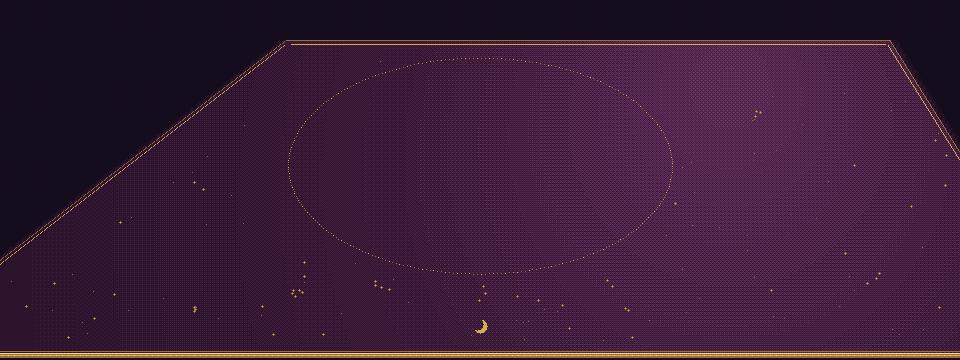
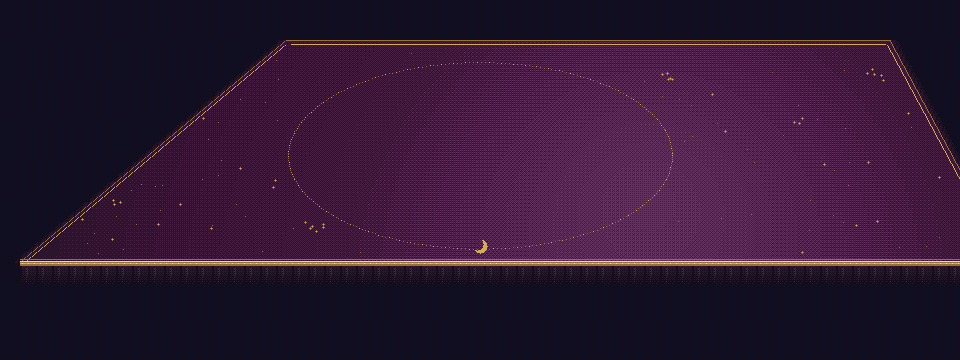
Cúi xuống tại chỗ: nhìn xuống chính chiếc bàn trước mặt Nguyệt
- Cảnh bàn đặt ngay trên mặt khăn trước mặt Nguyệt ở góc mặt Nguyệt; máy
  chỉ hạ nhẹ xuống đó trong khi mặt bàn nhìn từ chỗ khách ngồi hiện dần lên
  đè lên cảnh trong nhà (không so chiều sâu), ngẩng lên thì mờ đi. Hết lia
  qua vạt khăn sang một mặt bàn khác.
- Nến đứng ở mép gần bên phải, quả cầu pha lê ở mép gần bên trái như góc
  mặt Nguyệt; ánh nến trên khăn toả từ cây nến; ánh nến bàn chỉ sáng khi
  nhìn xuống. Mép gần (viền vàng, vạt khăn) nằm ngay trên hộp thoại.
- Điện thoại: nến nhích lên để ngọn lửa ló sau sổ, không đặt quả cầu.
- Bóng tay đổi hướng theo nến mới. Nhúng lại nguồn gốc ảnh; cập nhật
  DESIGN.md; ảnh chụp chuỗi cúi xuống và lúc đọc bài ở 1440 và 390.

diff --git a/src/components/scene/TableScene.tsx b/src/components/scene/TableScene.tsx
@@ -2,22 +2,30 @@
 import { useFrame } from "@react-three/fiber";
 import { useMemo, useRef, useState } from "react";
 import * as THREE from "three";
-import { FRAME_H, PX, PixelSprite, useRadialTexture } from "./pixel";
+import { PX, PixelSprite, framePos, useRadialTexture } from "./pixel";
 import { sceneStore } from "@/lib/store";
 
 const T = "/assets/table";
 const I = "/assets/interior";
 
-/** Mép trên của mặt bàn trùng mép dưới khung trong nhà (đã phóng overscan 1.08), để máy lia dọc liền một mạch. */
-const TOP_Y = -(FRAME_H * PX * 1.08) / 2;
+/**
+ * Cúi xuống tại chỗ: cảnh bàn đặt ngay trên chiếc bàn trước mặt Nguyệt ở góc mặt Nguyệt (mặt khăn của
+ * interior table.png, khung 640×360 từ y 250 tới 300, z 0.5, phóng overscan 1.08). Máy chỉ hạ nhẹ xuống đó
+ * trong khi mặt bàn nhìn từ trên hiện dần lên đè lên cảnh trong nhà; không lia qua vạt khăn sang chỗ khác.
+ */
+const TABLE_SURFACE_Y = framePos(320, 275, 0.5)[1] * 1.08;
 
 /** Khung ngắm của cảnh bàn: bản ngang cho màn ngang, bản dọc cho điện thoại. */
 export const tableFrame = (portrait: boolean): [number, number] => (portrait ? [360, 640] : [640, 360]);
-/** Tâm cảnh bàn trong thế giới, nơi camera nhìn vào khi hạ xuống. */
-export const tableCenterY = (portrait: boolean) => TOP_Y - (tableFrame(portrait)[1] * PX) / 2;
+/** Tâm cảnh bàn trong thế giới, nơi camera nhìn vào khi hạ xuống: chính mặt bàn trước mặt Nguyệt. */
+// eslint-disable-next-line @typescript-eslint/no-unused-vars
+export const tableCenterY = (_portrait: boolean) => TABLE_SURFACE_Y;
+
+/** Độ hiện của cảnh bàn (0..1), dùng chung cho ảnh mặt bàn, cây nến và ánh nến. */
+type Fade = { current: number };
 
 /** Ngọn nến đặt ở góc trên phải mặt bàn: chính nó thắp khăn (point light) và cho bloom bắt (flame glow). */
-function TableCandle({ x, y, size }: { x: number; y: number; size: number }) {
+function TableCandle({ x, y, size, fade }: { x: number; y: number; size: number; fade: Fade }) {
   const light = useRef<THREE.PointLight>(null);
   const halo = useRef<THREE.Mesh>(null);
   const tex = useRadialTexture("rgba(255,190,110,0.9)", "rgba(255,150,60,0)");
@@ -29,8 +37,9 @@ function TableCandle({ x, y, size }: { x: number; y: number; size: number }) {
     const t = clock.elapsedTime;
     const flicker = 0.88 + Math.sin(t * 13) * 0.04 + Math.sin(t * 7.3) * 0.05 + Math.random() * 0.03;
     const base = tag === "solemn" ? 0.6 : tag === "warm" ? 1.15 : tag === "reveal" ? 1.2 : 1;
-    if (light.current) light.current.intensity = 8.5 * base * flicker;
-    if (halo.current) (halo.current.material as THREE.MeshBasicMaterial).opacity = 0.4 * base * flicker;
+    // ánh nến bàn chỉ sáng khi đang nhìn xuống bàn, để không rọi thêm vào cảnh trong nhà
+    if (light.current) light.current.intensity = 8.5 * base * flicker * fade.current;
+    if (halo.current) (halo.current.material as THREE.MeshBasicMaterial).opacity = 0.4 * base * flicker * fade.current;
     tf.current += dt;
     if (tf.current > 0.12) {
       tf.current = 0;
@@ -45,29 +54,70 @@ function TableCandle({ x, y, size }: { x: number; y: number; size: number }) {
   return (
     <>
       <pointLight ref={light} position={[x, y + 0.2, 1.4]} color="#ffb061" intensity={8.5} distance={9} decay={1.1} />
-      <mesh ref={halo} position={[x, flameY, 0.05]} scale={[3.2, 3.2, 1]}>
+      <mesh ref={halo} position={[x, flameY, 0.05]} scale={[3.2, 3.2, 1]} renderOrder={12} userData={{ halo: true }}>
         <planeGeometry />
         <meshBasicMaterial map={tex} transparent opacity={0.4} depthWrite={false} blending={THREE.AdditiveBlending} toneMapped={false} />
       </mesh>
       {/* chính cây nến là nguồn sáng: giữ màu sáp thật, không nhận ánh nến của chính nó */}
-      <PixelSprite src={`${I}/candle.png`} position={[x, candleY, 0.06]} scale={S} mode="flat" />
-      <PixelSprite src={flames} frame={flame} position={[x, flameY, 0.07]} scale={S} mode="glow" glowStrength={2.1} glowColor="#ffd08a" />
+      <PixelSprite src={`${I}/candle.png`} position={[x, candleY, 0.06]} scale={S} mode="flat" renderOrder={13} />
+      <PixelSprite src={flames} frame={flame} position={[x, flameY, 0.07]} scale={S} mode="glow" glowStrength={2.1} glowColor="#ffd08a" renderOrder={14} />
     </>
   );
 }
 
-/** Mặt bàn nhìn từ trên. Lá, tay Nguyệt và cuốn sổ là lớp DOM đặt trên cảnh này (chữ thật, đọc được). */
+/**
+ * Mặt bàn nhìn từ chỗ khách ngồi, cúi xuống. Lá, tay Nguyệt và cuốn sổ là lớp DOM đặt trên cảnh này.
+ * Nến (gần, bên phải) và quả cầu pha lê (gần, bên trái) đứng đúng chỗ như ở góc mặt Nguyệt; toạ độ tính
+ * theo pixel của ảnh mặt bàn (khớp art/table.py tabletop). Cảnh vẽ đè lên cảnh trong nhà (không so chiều sâu)
+ * và hiện dần khi máy cúi xuống, mờ đi khi ngẩng lên.
+ */
 export function TableScene({ portrait }: { portrait: boolean }) {
   const [w, h] = tableFrame(portrait);
   const cy = tableCenterY(portrait);
-  // nến ở góc trên phải khăn
-  // bản dọc: điện thoại cắt bớt hai mép và thanh trên cùng che đỉnh, nên đặt nến lùi vào trong
-  const candleX = (w / 2 - (portrait ? 84 : 70)) * PX;
-  const candleY = cy + (h / 2 - (portrait ? 96 : 76)) * PX;
+  const group = useRef<THREE.Group>(null);
+  const fade = useRef(sceneStore.get().stage === "table" ? 1 : 0);
+  const prepared = useRef(false);
+  // pixel ảnh mặt bàn -> toạ độ thế giới (ảnh bản ngang rộng 960, hơn khung 640, để máy lia khi có sổ)
+  const iw = portrait ? w : 960;
+  const at = (u: number, v: number): [number, number] => [(u - iw / 2) * PX, cy + (h / 2 - v) * PX];
+  const candleS = portrait ? 1.2 : 1.6;
+  // điện thoại: mép gần thường nằm sau cuốn sổ và hộp thoại, nên nến đứng nhích lên để ngọn lửa ló ra sau sổ;
+  // quả cầu pha lê không đặt (ở góc mặt Nguyệt trên điện thoại nó cũng nằm ngoài khung)
+  const [candleX, candleY] = at(portrait ? 290 : 650, (portrait ? 400 : 232) - 20 * candleS);
+  const [ballX, ballY] = at(portrait ? 70 : 312, (portrait ? 440 : 232) - 14 * candleS);
+
+  useFrame((_, dt) => {
+    const g = group.current;
+    if (!g) return;
+    const target = sceneStore.get().stage === "table" ? 1 : 0;
+    const reduce = window.matchMedia?.("(prefers-reduced-motion: reduce)").matches;
+    fade.current = reduce ? target : THREE.MathUtils.damp(fade.current, target, 3.4, dt);
+    if (Math.abs(fade.current - target) < 0.004) fade.current = target;
+    g.visible = fade.current > 0.002;
+    g.traverse((o) => {
+      const m = o as THREE.Mesh;
+      if (!m.isMesh) return;
+      const mat = m.material as THREE.Material & { userData: { base?: number } };
+      if (!prepared.current) {
+        // vẽ sau cảnh trong nhà và không so chiều sâu, để đè lên trọn cảnh dù đứng ở z nào
+        mat.userData.base = mat.opacity;
+        mat.depthTest = false;
+        mat.alphaTest = 0;
+        mat.transparent = true;
+        mat.needsUpdate = true;
+        m.renderOrder = m.renderOrder || 10;
+      }
+      if (m.userData.halo) return; // quầng nến tự tính độ mờ theo fade
+      mat.opacity = (mat.userData.base ?? 1) * fade.current;
+    });
+    prepared.current = true;
+  });
+
   return (
-    <group>
-      <PixelSprite src={portrait ? `${T}/tabletop_doc.png` : `${T}/tabletop.png`} position={[0, cy, 0]} />
-      <TableCandle x={candleX} y={candleY} size={portrait ? 1.2 : 1.6} />
+    <group ref={group}>
+      <PixelSprite src={portrait ? `${T}/tabletop_doc.png` : `${T}/tabletop.png`} position={[0, cy, 0]} renderOrder={10} />
+      {!portrait && <PixelSprite src={`${I}/crystal.png`} position={[ballX, ballY, 0.05]} scale={candleS} renderOrder={11} />}
+      <TableCandle x={candleX} y={candleY} size={candleS} fade={fade} />
     </group>
   );
 }

diff --git a/src/app/globals.css b/src/app/globals.css
@@ -1001,9 +1001,9 @@ img {
   left: calc(var(--cx) + var(--w) * 1.12);
   transform: translateX(-50%);
 }
-/* tay trái lật gương: lật luôn hướng bóng để bóng vẫn đổ xuống bên trái (nến ở góc trên phải) */
+/* tay trái lật gương: lật luôn hướng bóng để bóng vẫn đổ về bên trái */
 .table-arm.is-resting.is-left .arm-shadow {
-  transform: translate(calc(var(--aw) * 0.16), calc(var(--aw) * 0.16));
+  transform: translate(calc(var(--aw) * 0.16), calc(var(--aw) * -0.12));
 }
 /* sổ mở trên điện thoại phủ kín bàn: cất cánh tay để ống tay không thò ra phía trên sổ */
 .table-field:has(> .notebook.is-open) .table-arm {
@@ -1017,9 +1017,9 @@ img {
   flex-direction: column;
   justify-content: flex-end;
 }
-/* bóng tay trên khăn: nến ở góc trên phải nên bóng đổ xuống bên trái */
+/* bóng tay trên khăn: nến đứng ở mép gần bên phải (như ở góc mặt Nguyệt) nên bóng đổ ngược lên bên trái */
 .arm-shadow {
-  transform: translate(calc(var(--aw) * -0.16), calc(var(--aw) * 0.16));
+  transform: translate(calc(var(--aw) * -0.16), calc(var(--aw) * -0.12));
   opacity: 0.38;
   filter: brightness(0);
 }

diff --git a/art/table.py b/art/table.py
@@ -12,13 +12,13 @@ import characters
 
 # ------------------------------------------------------------------ mặt bàn
 def tabletop(W, H, seed, CW=None):
-    """Mặt bàn của Nguyệt nhìn từ chỗ khách ngồi, hơi chếch xuống: mép xa hẹp hơn mép gần (phối cảnh),
-    hai mép bên chéo dần, ngoài mép bàn là sàn nhà chìm trong bóng tối. Khăn tím mận như ở góc mặt Nguyệt
-    (interior.table) phủ kín mặt bàn rồi rủ qua mép (dải nếp gấp tối, viền vàng ở mép), mép gần phía khách
-    là dải viền vàng đính hạt; sao thêu thưa dần về phía xa; vòng đọc bài chấm vàng; trăng khuyết ở mép gần.
-    Vạt áo và hai tay nghỉ của Nguyệt ở mép xa là lớp DOM (.table-robe).
-    CW: bề rộng vùng giữa để đặt vòng đọc bài; phần thêm hai bên cho máy lia ngang khi sổ nằm ở góc bàn.
-    Ánh nến đến từ góc trên phải mặt bàn (dither Bayer)."""
+    """Chính chiếc bàn trước mặt Nguyệt ở góc mặt Nguyệt (interior.table), khi khách cúi xuống nhìn:
+    phối cảnh từ chỗ khách ngồi, mép xa hẹp hơn mép gần, hai mép bên hội tụ về tâm máy, ngoài mép bàn là
+    bóng tối. Khăn tím mận phủ kín mặt bàn, rủ qua mép bên (dải nếp gấp tối); mép gần phía khách nằm phía trên
+    hộp thoại, là dải viền vàng đính hạt rồi vạt khăn rủ xuống như ở góc mặt Nguyệt. Nến (gần, bên phải) và
+    quả cầu pha lê (gần, bên trái) đứng đúng chỗ như ở góc mặt Nguyệt; chúng là sprite trong TableScene,
+    ở đây chỉ vẽ ánh nến (dither Bayer) toả từ chỗ cây nến. Vạt áo và hai tay nghỉ của Nguyệt ở mép xa là lớp
+    DOM (.table-robe). CW: bề rộng vùng giữa để đặt vòng đọc bài."""
     CW = CW or W
     landscape = CW > H
     img = new(W, H, 'out')
@@ -28,12 +28,14 @@ def tabletop(W, H, seed, CW=None):
     # bản dọc đối xứng; bản ngang dùng cho desktop có sổ ghim, máy lệch phải nên mép trái chéo rõ
     # và hiện trong khung, mép phải nằm ngoài cột sổ để sổ vẫn nằm trên bàn.
     if landscape:
-        far_y, far_l, far_r, near_l, near_r = 40, 286, 890, -130, 1090
+        far_y, near_y, far_l, far_r, near_l, near_r = 40, 262, 286, 890, 20, 1010
+        lx, ly = 650, 196                               # ngọn nến (TableScene đặt cây nến ở đây)
     else:
-        far_y, far_l, far_r, near_l, near_r = 52, 64, W - 64, -14, W + 14
+        far_y, near_y, far_l, far_r, near_l, near_r = 52, 455, 64, W - 64, 4, W - 4
+        lx, ly = 290, 362
 
     def edges(y):
-        t = (y - far_y) / max(1, H - far_y)
+        t = (y - far_y) / max(1, near_y - far_y)
         return far_l + (near_l - far_l) * t, far_r + (near_r - far_r) * t
 
     def hw(y):  # nửa bề rộng quanh tâm vòng đọc bài (dùng để chừa sao)
@@ -45,12 +47,11 @@ def tabletop(W, H, seed, CW=None):
         for x in range(W):
             if bayer(x, y, 0.10 + 0.08 * ((x // 7 + y // 40) % 2)):
                 px[x, y] = c('n0')
-    lx, ly = (730 if landscape else W - 84), far_y + H * 0.10   # nguồn sáng: ngọn nến gần góc xa bên phải
-    diag = math.hypot(W, H)
+    diag = math.hypot(W, H) * 0.8
     drape = 7                                          # dải khăn rủ qua mép bên
-    for y in range(far_y, H):
+    for y in range(far_y, near_y + 1):
         el, er = edges(y)
-        depth = (y - far_y) / (H - far_y)              # 0 ở mép xa, 1 ở mép gần
+        depth = (y - far_y) / (near_y - far_y)         # 0 ở mép xa, 1 ở mép gần
         for x in range(W):
             out_by = max(el - x, x - er)               # >0: ngoài mép bàn
             if out_by <= 0:
@@ -71,7 +72,7 @@ def tabletop(W, H, seed, CW=None):
                 px[x, y] = c(col)
     d = draw(img)
     # mép bàn: viền thêu vàng chạy theo mép khăn (hai bên và mép xa)
-    for y in range(far_y, H):
+    for y in range(far_y, near_y):
         el, er = edges(y)
         put(img, int(el), y, 'au0')
         put(img, int(er), y, 'au0')
@@ -80,19 +81,29 @@ def tabletop(W, H, seed, CW=None):
             put(img, int(er - 5), y, 'au1')
     d.line([(far_l, far_y), (far_r, far_y)], fill=c('au0'))
     d.line([(far_l + 5, far_y + 4), (far_r - 5, far_y + 4)], fill=c('au1'))
-    # mép gần: khăn gập xuống phía khách, dải viền vàng đính hạt
-    d.line([(0, H - 9), (W, H - 9)], fill=c('au0'))
-    d.line([(0, H - 7), (W, H - 7)], fill=c('au2'))
-    d.rectangle([0, H - 6, W, H - 3], fill=c('au0'))
-    d.line([(0, H - 5), (W, H - 5)], fill=c('au1'))
-    for x in range(2, W, 6):
-        put(img, x, H - 5, 'au2')
-    d.rectangle([0, H - 2, W, H - 1], fill=c('out'))
+    # mép gần: dải viền vàng đính hạt, rồi vạt khăn rủ xuống phía khách (nếp gấp như interior.table)
+    nl, nr = edges(near_y)
+    nl, nr = int(max(0, nl)), int(min(W - 1, nr))
+    d.line([(nl, near_y - 3), (nr, near_y - 3)], fill=c('au0'))
+    d.line([(nl, near_y - 1), (nr, near_y - 1)], fill=c('au2'))
+    d.rectangle([nl, near_y, nr, near_y + 3], fill=c('au0'))
+    d.line([(nl, near_y + 1), (nr, near_y + 1)], fill=c('au1'))
+    for x in range(nl + 2, nr, 6):
+        put(img, x, near_y + 1, 'au2')
+    for y in range(near_y + 4, min(H, near_y + 22)):
+        k = y - near_y - 4
+        for x in range(nl, nr + 1):
+            col = 'p0' if (x % 16) not in (4, 5) else 'out'
+            if (x % 16) in (10, 11) and k > 1:
+                col = 'p1'
+            if bayer(x, y, k / 18):                     # vạt khăn khuất dần vào bóng
+                col = 'out'
+            px[x, y] = c(col)
     # sao thêu, thưa dần về phía xa; chừa vòng đọc bài
     r = rng(seed)
     # phối cảnh: vòng tròn trên mặt bàn hiện ra thành elip dẹt (rộng hơn cao), cả ở bản dọc
-    rx, ry = (CW * 0.30, H * 0.30) if landscape else (CW * 0.36, CW * 0.36 * 0.9)
-    cy0 = H * 0.46
+    rx, ry = (CW * 0.30, (near_y - far_y) * 0.42) if landscape else (CW * 0.36, (near_y - far_y) * 0.30)
+    cy0 = far_y + (near_y - far_y) * 0.52
 
     def inside(x, y, pad):
         el, er = edges(y)
@@ -106,15 +117,17 @@ def tabletop(W, H, seed, CW=None):
             put(img, x, y, 'au1')
 
     for _ in range(int(W * H / 1500)):
-        x, y = r.randint(8, W - 9), r.randint(far_y + 8, H - 16)
+        x, y = r.randint(8, W - 9), r.randint(far_y + 8, near_y - 8)
         if not inside(x, y, 9) or ((x - cx0) / (rx + 10)) ** 2 + ((y - cy0) / (ry + 10)) ** 2 < 1:
             continue
-        if r.random() > 0.35 + 0.65 * (y - far_y) / (H - far_y):
+        if math.hypot(x - lx, y - ly - 30) < 26:        # chừa chân nến
             continue
-        star(x, y, r.random() < .3 * (y - far_y) / (H - far_y) + .05)
+        if r.random() > 0.35 + 0.65 * (y - far_y) / (near_y - far_y):
+            continue
+        star(x, y, r.random() < .3 * (y - far_y) / (near_y - far_y) + .05)
     for _ in range(max(3, int(W * H / 60000))):
         for _try in range(30):
-            x, y = r.randint(20, W - 21), r.randint(far_y + 30, H - 30)
+            x, y = r.randint(20, W - 21), r.randint(far_y + 30, near_y - 30)
             if inside(x, y, 24) and ((x - cx0) / (rx + 24)) ** 2 + ((y - cy0) / (ry + 24)) ** 2 >= 1:
                 break
         for _k in range(r.randint(3, 5)):
@@ -128,7 +141,7 @@ def tabletop(W, H, seed, CW=None):
         a = 2 * math.pi * i / steps
         put(img, round(cx0 + rx * math.cos(a)), round(cy0 + ry * math.sin(a)), 'au0' if i % 3 else 'au1')
     # trăng khuyết thêu ở mép gần (phía khách)
-    mx, my = int(W / 2), int(H - (34 if landscape else 44))
+    mx, my = int(W / 2), int(near_y - 16)
     for y in range(my - 9, my + 10):
         for x in range(mx - 9, mx + 10):
             if (x - mx) ** 2 + (y - my) ** 2 <= 7 ** 2 and (x - mx + 3) ** 2 + (y - my + 2) ** 2 > 6 ** 2:

diff --git a/DESIGN.md b/DESIGN.md
@@ -222,7 +222,7 @@ Tham chiếu cần giống: game HD-2D (Octopath Traveler), Eastward, và độ 
 - Góc vuông tuyệt đối, viền đặc 2–3 px, bóng đặc lệch xuống thay cho bóng nhòe.
 - Hai giọng chữ: VT323 cho thứ để bấm và gọi tên, Be Vietnam Pro cho thứ để đọc.
 - Thành phần trầm và tiết chế; cảnh và lời thoại dẫn dắt.
-- Trong nhà có hai góc máy trên một trục dọc: mặt Nguyệt để trò chuyện, mặt bàn để trải bài.
+- Trong nhà có hai góc máy cùng nhìn một chiếc bàn: mặt Nguyệt để trò chuyện, cúi xuống chính chiếc bàn trước mặt nàng để trải bài.
 
 ## Colors
 
@@ -299,13 +299,13 @@ Giao diện DOM là các lớp đặt cố định trên cảnh:
 - **Bìa rừng**: khối chữ giữa, dưới đáy màn hình, rộng tối đa 640 px. Trên mobile khối này trải hết ngang, có nền tối dần từ trên xuống để chữ đọc được trên cảnh.
 - **Vùng chơi** (trong nhà): một cột flex xếp từ đáy lên gồm dải bài hoặc mặt bàn, thẻ hỗ trợ (chỉ khi khủng hoảng), và hộp thoại. Khoảng cách clamp(0.75rem, 2.5vh, 1.6rem). Các khối rộng min(94vw, 780px).
 - **Mặt bàn** (góc máy bàn): vùng bàn rộng min(96vw, 1000px) chiếm hết phần còn lại phía trên hộp thoại, căn giữa kiểu `safe center` để bàn đông lá vẫn cuộn tới hàng trên. Vùng chơi bắt đầu ngay dưới thanh trên cùng để cánh tay Nguyệt vươn từ mép xa của bàn; nội dung chừa 3.2rem cho nút đổi góc máy. Lá nằm đúng hình trải trong vòng chấm vàng của khăn: một lá; ba lá thành hàng; tam giác với Trở ngại ở đỉnh, hai lá kia hạ xuống 0.6 bề rộng lá. Lá làm rõ là một hàng riêng nhỏ hơn bên dưới; khi có hàng này, hình trải chính thu nhỏ để cả bàn vừa một màn. Cỡ lá theo cả bề ngang lẫn bề cao màn. Lá bài của ngày cũng dùng mặt bàn, một lá, không có sổ. Lúc xào bài, giữa bàn chỉ có bộ bài chia hai nửa dưới hai bàn tay; sổ vẫn nằm đúng chỗ của nó.
-- **Sổ của Bấc**: trên điện thoại sổ gập ở góc dưới trái của bàn, bàn chừa 4.5rem trên dưới cho mép sổ; mở ra thì phủ kín vùng bàn. Trên desktop (≥1024 px và tỉ lệ ≥4:3) sổ mở sẵn ở góc phải bàn dưới ngọn nến, rộng min(30vw, 360px), cách đỉnh 15vh; vùng bàn chừa cột đó và camera lệch phải nửa bề rộng cột để vòng đọc bài vẫn nằm giữa phần bàn còn lại. Sổ chỉ ghi một câu khi câu đó đã hiện trọn trong hộp thoại (chạy xong chữ, được bấm hiện hết, hoặc bị bỏ qua bằng "Sang lá kế"), để sổ ghim không in sẵn câu Nguyệt còn đang nói dở.
+- **Sổ của Bấc**: trên điện thoại sổ gập ở góc dưới trái của bàn, bàn chừa 4.5rem trên dưới cho mép sổ; mở ra thì phủ kín vùng bàn. Trên desktop (≥1024 px và tỉ lệ ≥4:3) sổ mở sẵn ở góc phải bàn, bên phải ngọn nến, rộng min(30vw, 360px), cách đỉnh 15vh; vùng bàn chừa cột đó và camera lệch phải nửa bề rộng cột để vòng đọc bài vẫn nằm giữa phần bàn còn lại. Sổ chỉ ghi một câu khi câu đó đã hiện trọn trong hộp thoại (chạy xong chữ, được bấm hiện hết, hoặc bị bỏ qua bằng "Sang lá kế"), để sổ ghim không in sẵn câu Nguyệt còn đang nói dở.
 - **Trang phụ**: một cột giữa rộng min(92vw, 880px), đệm trên 6rem, nền đêm có quầng ánh nến mờ ở đỉnh.
 
 Nhịp khoảng cách theo rem: 0.4 / 0.6 / 0.8 / 1.2 / 2. Điểm ngắt chính ở 640 px: tiêu đề nhỏ lại, dải bài khép sát hơn, khối bìa rừng trải ngang. Hai điểm ngắt phụ: 900 px (ô chân dung lớn lên 96 px) và ≥1024 px kèm tỉ lệ ≥4:3 (sổ mở sẵn ở góc bàn). Mọi lớp tôn trọng `env(safe-area-inset-*)`.
 
 ### Named Rules
-**Luật Hai Góc Máy.** Trong nhà có hai góc máy trên cùng một trục dọc: mặt Nguyệt (trò chuyện, chào hỏi, câu hỏi, chào ra về; khủng hoảng luôn ở đây) và mặt bàn (xào bài, chọn lá, lật lá, tổng kết). Máy tự hạ xuống bàn khi bấm "Xào bài" và tự nâng lên khi chào ra về. Khách đổi góc bất cứ lúc nào: ở mặt Nguyệt bằng nút "▼ Xem bàn" giữa đỉnh màn, ở mặt bàn bằng ô chân dung Nguyệt trên hộp thoại (kèm thẻ "▲ Nhìn Nguyệt"), và ở cả hai góc bằng vuốt dọc, bánh xe chuột hoặc phím ↑/↓; trên điện thoại trục đi tiếp xuống cuốn sổ. Ở góc mặt Nguyệt, hộp thoại và lá xếp chung một cột flex dồn đáy, không định vị tuyệt đối riêng rẽ: hộp thoại cao bao nhiêu thì lá lùi lên bấy nhiêu, khi tràn thì cột cuộn được. Ở góc mặt bàn, hình trải nằm đúng hình của nó trong vòng chấm đọc bài.
+**Luật Hai Góc Máy.** Trong nhà có hai góc máy cùng nhìn một chiếc bàn. Góc mặt bàn là khách cúi xuống tại chỗ: máy chỉ hạ nhẹ xuống mặt khăn trước mặt Nguyệt (chỗ đặt nến ở góc mặt Nguyệt) trong khi mặt bàn nhìn từ chỗ khách ngồi hiện dần lên đè lên cảnh trong nhà, không lia qua vạt khăn sang một mặt bàn khác; ngẩng lên thì mặt bàn mờ đi. Hai góc: mặt Nguyệt (trò chuyện, chào hỏi, câu hỏi, chào ra về; khủng hoảng luôn ở đây) và mặt bàn (xào bài, chọn lá, lật lá, tổng kết). Máy tự hạ xuống bàn khi bấm "Xào bài" và tự nâng lên khi chào ra về. Khách đổi góc bất cứ lúc nào: ở mặt Nguyệt bằng nút "▼ Xem bàn" giữa đỉnh màn, ở mặt bàn bằng ô chân dung Nguyệt trên hộp thoại (kèm thẻ "▲ Nhìn Nguyệt"), và ở cả hai góc bằng vuốt dọc, bánh xe chuột hoặc phím ↑/↓; trên điện thoại trục đi tiếp xuống cuốn sổ. Ở góc mặt Nguyệt, hộp thoại và lá xếp chung một cột flex dồn đáy, không định vị tuyệt đối riêng rẽ: hộp thoại cao bao nhiêu thì lá lùi lên bấy nhiêu, khi tràn thì cột cuộn được. Ở góc mặt bàn, hình trải nằm đúng hình của nó trong vòng chấm đọc bài.
 
 **Đi vào nhà.** Một nhịp liền khoảng 2.5 giây, không có chỗ dừng: bấm "Đi theo lối mòn" thì khối chữ bìa rừng mờ đi (0.4s) và máy bắt đầu đi về phía cửa theo đường sin vào-ra (2.4s), cửa sáng dần. Bóng tối phủ lên ở giây 1.35, khi máy vẫn đang đi (0.55s, cubic-bezier(0.65, 0, 0.35, 1)); đổi cảnh lúc đã tối hẳn, chờ cảnh trong nhà vẽ xong vài khung rồi mới sáng lên. Trong nhà máy mở ra hơi gần rồi lùi nhẹ về khung nghỉ, như mắt vừa quen ánh nến; hộp thoại chào hiện sau 0.35s để không nổi trên màn đen. Ảnh trong nhà được tải sẵn khi khách còn ở bìa rừng. Giảm chuyển động: bỏ đoạn đi, chỉ mờ đen rồi vào thẳng.
 
@@ -320,7 +320,7 @@ Chiều sâu thật thuộc về cảnh 3D: lớp parallax, sương, ánh nến 
 - **Quầng nến** (`box-shadow: 0 0 14px rgba(243, 214, 139, 0.9), 0 6px 0 rgba(0, 0, 0, 0.45)`): lá được chọn trong dải; bản 0.7 cho lá làm rõ.
 - **Bóng sổ** (`box-shadow: 0 8px 0 rgba(0, 0, 0, 0.5)`): cuốn sổ mở; mép trang thò ra dưới bìa dùng bản 4 px, 0.45.
 - **Bóng ô chân dung** (`box-shadow: 0 0 0 3px #160c1c, 0 6px 0 rgba(0, 0, 0, 0.45)`): viền mực và bóng đặc như lá bài, không quầng tối mềm.
-- **Bóng tay trên khăn** (`filter: brightness(0)`, `opacity: 0.38`): chính hình cánh tay tô đen, lệch xuống trái 16% bề rộng tay vì nến ở góc trên phải. Bóng tiếp xúc đặc, không nhòe; phần tử chỉ dịch 2D, không có transform 3D.
+- **Bóng tay trên khăn** (`filter: brightness(0)`, `opacity: 0.38`): chính hình cánh tay tô đen, lệch về bên trái và hơi lên trên (16% và 12% bề rộng tay) vì nến đứng ở mép gần bên phải. Bóng tiếp xúc đặc, không nhòe; phần tử chỉ dịch 2D, không có transform 3D.
 - **Bóng bộ bài lúc xào** (`box-shadow: 0 6px 0 rgba(0, 0, 0, 0.45), inset 0 -3px 0 #160c1c`): bóng lá bài cộng một gờ mực ở đáy cho độ dày của xấp bài.
 - **Chữ thắp sáng** (`text-shadow: 0 3px 0 #160c1c, 0 0 22px rgba(255, 196, 107, 0.35)`): tiêu đề pixel.
 - **Chữ trên cảnh** (`text-shadow: 0 2px 0 #000`): chú thích dưới lá, đặc như bóng nút. Chữ phụ ở bìa rừng dùng bản mềm (0 2px 6px #000; 0 1px 3px cho dòng ghi chú) chỉ để đọc được trên cảnh, không để nâng bề mặt.
@@ -386,7 +386,7 @@ Mỗi góc một lối, đặt theo chỗ khách đang nhìn. Ở mặt Nguyệt
 Lá trên bàn rộng clamp(72px, min(21.5vw, 15vh), 136px); trên desktop có sổ ghim, lá lớn theo chiều cao clamp(96px, min(13vw, 18.5vh), 176px) (150 px ở 1440×810) và hình trải dồn xuống gần hộp thoại, để phía trên còn chỗ cho bàn tay Nguyệt. Lá làm rõ clamp(54px, min(7.5vw, 10vh), 96px); khi có hàng lá làm rõ, hình trải chính nhỏ lại, tam giác dẹt hơn và hai hàng sát nhau (1rem), để cả ba lá làm rõ vẫn vừa trên hộp thoại không phải cuộn. Góc mặt bàn chỉ chừa khe 0.75rem dưới thanh trên cùng vì không có nút giữa đỉnh. Chú thích dưới lá có vùng cố định hai dòng (cao tối thiểu 3.6rem) để hàng lá không xô lệch khi tên dài: vị trí (khói sương, một dòng; "· ngược" xanh trăng nối vào dòng này) và tên lá (ngọn lửa, tối đa 2 dòng, cắt phần thừa), mỗi dòng nằm trên một tấm mực rgba(8, 6, 13, 0.66) để đọc được cả trên vùng khăn sáng nhất cạnh nến. Bộ đếm lá lúc chọn dùng cùng tấm mực.
 
 ### Cánh tay Nguyệt
-**Bàn của Nguyệt.** Góc mặt bàn là đúng chiếc bàn ở góc mặt Nguyệt, nhìn từ chỗ khách ngồi hơi chếch xuống chứ không thẳng từ trên (thẳng từ trên thì khăn đầy màn trông như tấm thảm): mặt bàn là hình thang, mép xa hẹp hơn mép gần, hai mép bên hội tụ về tâm máy (bản dọc đối xứng; bản ngang cho desktop có sổ ghim thì mép trái chéo rõ, mép phải nằm ngoài cột sổ để sổ vẫn nằm trên bàn), ngoài mép bàn là sàn nhà chìm trong bóng tối; vòng đọc bài là elip dẹt theo phối cảnh. Khăn tím mận phủ kín mặt bàn rồi rủ qua mép (dải nếp gấp tối), viền thêu vàng chạy theo mép khăn, mép gần phía khách là dải viền vàng đính hạt nơi khăn gập xuống, sao thêu và vài chòm sao như mặt khăn bên kia, vòng đọc bài chấm vàng, trăng khuyết thêu ở mép gần; không còn viền gỗ trơn quanh khăn. Nguyệt ngồi ở mép xa: vạt áo choàng xanh sao (`table/robe.png`, cùng chất liệu ống tay) phủ qua mép bàn, gấu vàng cong chùng ở giữa, phần trên chìm vào bóng tối; hai bàn tay nghỉ ở hai bên vạt áo như ở góc mặt Nguyệt. Tay nào đang chỉ lá (lá bên trái dùng tay trái, lá giữa và lá phải dùng tay phải) hay đang xào bài thì rời chỗ nghỉ. Vạt áo nằm dưới mọi bàn tay, trên khăn; cùng thang pixel với lá (1 px ảnh = bề rộng lá / 48).
+**Bàn của Nguyệt.** Góc mặt bàn là đúng chiếc bàn ở góc mặt Nguyệt, nhìn từ chỗ khách ngồi hơi chếch xuống chứ không thẳng từ trên (thẳng từ trên thì khăn đầy màn trông như tấm thảm): mặt bàn là hình thang, mép xa hẹp hơn mép gần, hai mép bên hội tụ về tâm máy (bản dọc đối xứng; bản ngang cho desktop có sổ ghim thì mép trái chéo rõ, mép phải nằm ngoài cột sổ để sổ vẫn nằm trên bàn), ngoài mép bàn là sàn nhà chìm trong bóng tối; vòng đọc bài là elip dẹt theo phối cảnh. Khăn tím mận phủ kín mặt bàn rồi rủ qua mép (dải nếp gấp tối), viền thêu vàng chạy theo mép khăn, mép gần phía khách là dải viền vàng đính hạt nơi khăn gập xuống, sao thêu và vài chòm sao như mặt khăn bên kia, vòng đọc bài chấm vàng, trăng khuyết thêu ở mép gần; không còn viền gỗ trơn quanh khăn. Nguyệt ngồi ở mép xa: vạt áo choàng xanh sao (`table/robe.png`, cùng chất liệu ống tay) phủ qua mép bàn, gấu vàng cong chùng ở giữa, phần trên chìm vào bóng tối; hai bàn tay nghỉ ở hai bên vạt áo như ở góc mặt Nguyệt. Tay nào đang chỉ lá (lá bên trái dùng tay trái, lá giữa và lá phải dùng tay phải) hay đang xào bài thì rời chỗ nghỉ. Vạt áo nằm dưới mọi bàn tay, trên khăn; cùng thang pixel với lá (1 px ảnh = bề rộng lá / 48). Nến đứng ở mép gần bên phải và quả cầu pha lê ở mép gần bên trái, đúng chỗ như ở góc mặt Nguyệt; ánh nến trên khăn toả từ chỗ cây nến. Mép gần nằm ngay trên hộp thoại (dải viền vàng đính hạt, vạt khăn rủ xuống). Trên điện thoại mép gần thường khuất sau sổ và hộp thoại, nên nến nhích lên để ngọn lửa ló ra sau sổ và không đặt quả cầu (ở góc mặt Nguyệt trên điện thoại nó cũng nằm ngoài khung).
 
 Ống tay là một mảnh pixel lặp dọc phía trên bàn tay, nối liền bàn tay (chồng 1 px để không hở mối nối). Tay chỉ lá chỉ cao 2.1 lá: thấy bàn tay, cổ tay và một đoạn cẳng tay, phần trên chìm dần vào bóng tối phía Nguyệt theo ba bậc trong suốt (mask 0 → 35% → 70% → đặc), để lá ở hàng dưới không kéo theo một ống tay dài từ mép xa của bàn. Bàn tay chỉ vào ngay trên mép trên của lá đang được nói, không bao giờ che tên hay hình lá; bề rộng theo cỡ lá (34/48). Tay trượt vào trong 0.45s, tắt khi khách bật giảm chuyển động. Cánh tay không hiện trên hàng lá làm rõ và cất đi khi sổ đang mở phủ bàn trên điện thoại. Lúc xào bài, bộ bài nằm ngay trước mặt Nguyệt, sát mép xa của bàn, nên chỉ thấy bàn tay, cổ tay và một đoạn cẳng tay ngắn như người thật xào bài trước người mình (không kéo ống tay dài tới giữa bàn); hai bàn tay nghỉ úp lên hai nửa bộ bài (không trượt vào), hai nửa tách ra rồi gập vào theo `steps(3)`. Bóng tiếp xúc đổ xuống bên trái (xem Elevation & Depth).
 
@@ -396,7 +396,7 @@ Lá trên bàn rộng clamp(72px, min(21.5vw, 15vh), 136px); trên desktop có s
 ### Sổ của Bấc (signature)
 Cuốn sổ bìa da nâu ghi lại câu hỏi và lời giải từng lá để khách đọc lại bất cứ lúc nào. Trang mở là khung 9 mảnh da-giấy, mặt Giấy Sổ, chữ Mực Nâu, bóng đặc 8 px. Đầu sổ là tiêu đề "Sổ của Bấc" và nút "Gập sổ" viền Da Bìa; trang cuộn được, đáy trang mờ dần vào giấy, tự cuộn để lá mới hiện trọn và tới trang tổng kết khi đọc xong (cuộn mượt; tức thì khi giảm chuyển động). Sổ không bao giờ ẩn hẳn, kể cả lúc xào bài. Trang tổng kết "Bàn hôm nay" mở bằng vạch đôi da, đặt "Lời dặn" lên đầu trên nền da mờ, rồi mới tới danh sách lá.
 - **Điện thoại:** sổ gập ở góc dưới trái, bìa da 84 px với trang đầu trượt ra từ dưới bìa, luôn ghi câu hỏi hoặc lá đang đọc (tối đa 2 dòng). Chạm hoặc đi xuống trục để mở phủ kín bàn; đi lên trục hoặc "Gập sổ" để gập lại.
-- **Desktop (≥1024 px, ≥4:3):** sổ mở sẵn ở góc bàn dưới ngọn nến, ngoài vòng đọc bài.
+- **Desktop (≥1024 px, ≥4:3):** sổ mở sẵn ở góc phải bàn, bên phải ngọn nến, ngoài vòng đọc bài.
 
 ## Do's and Don'ts
 
